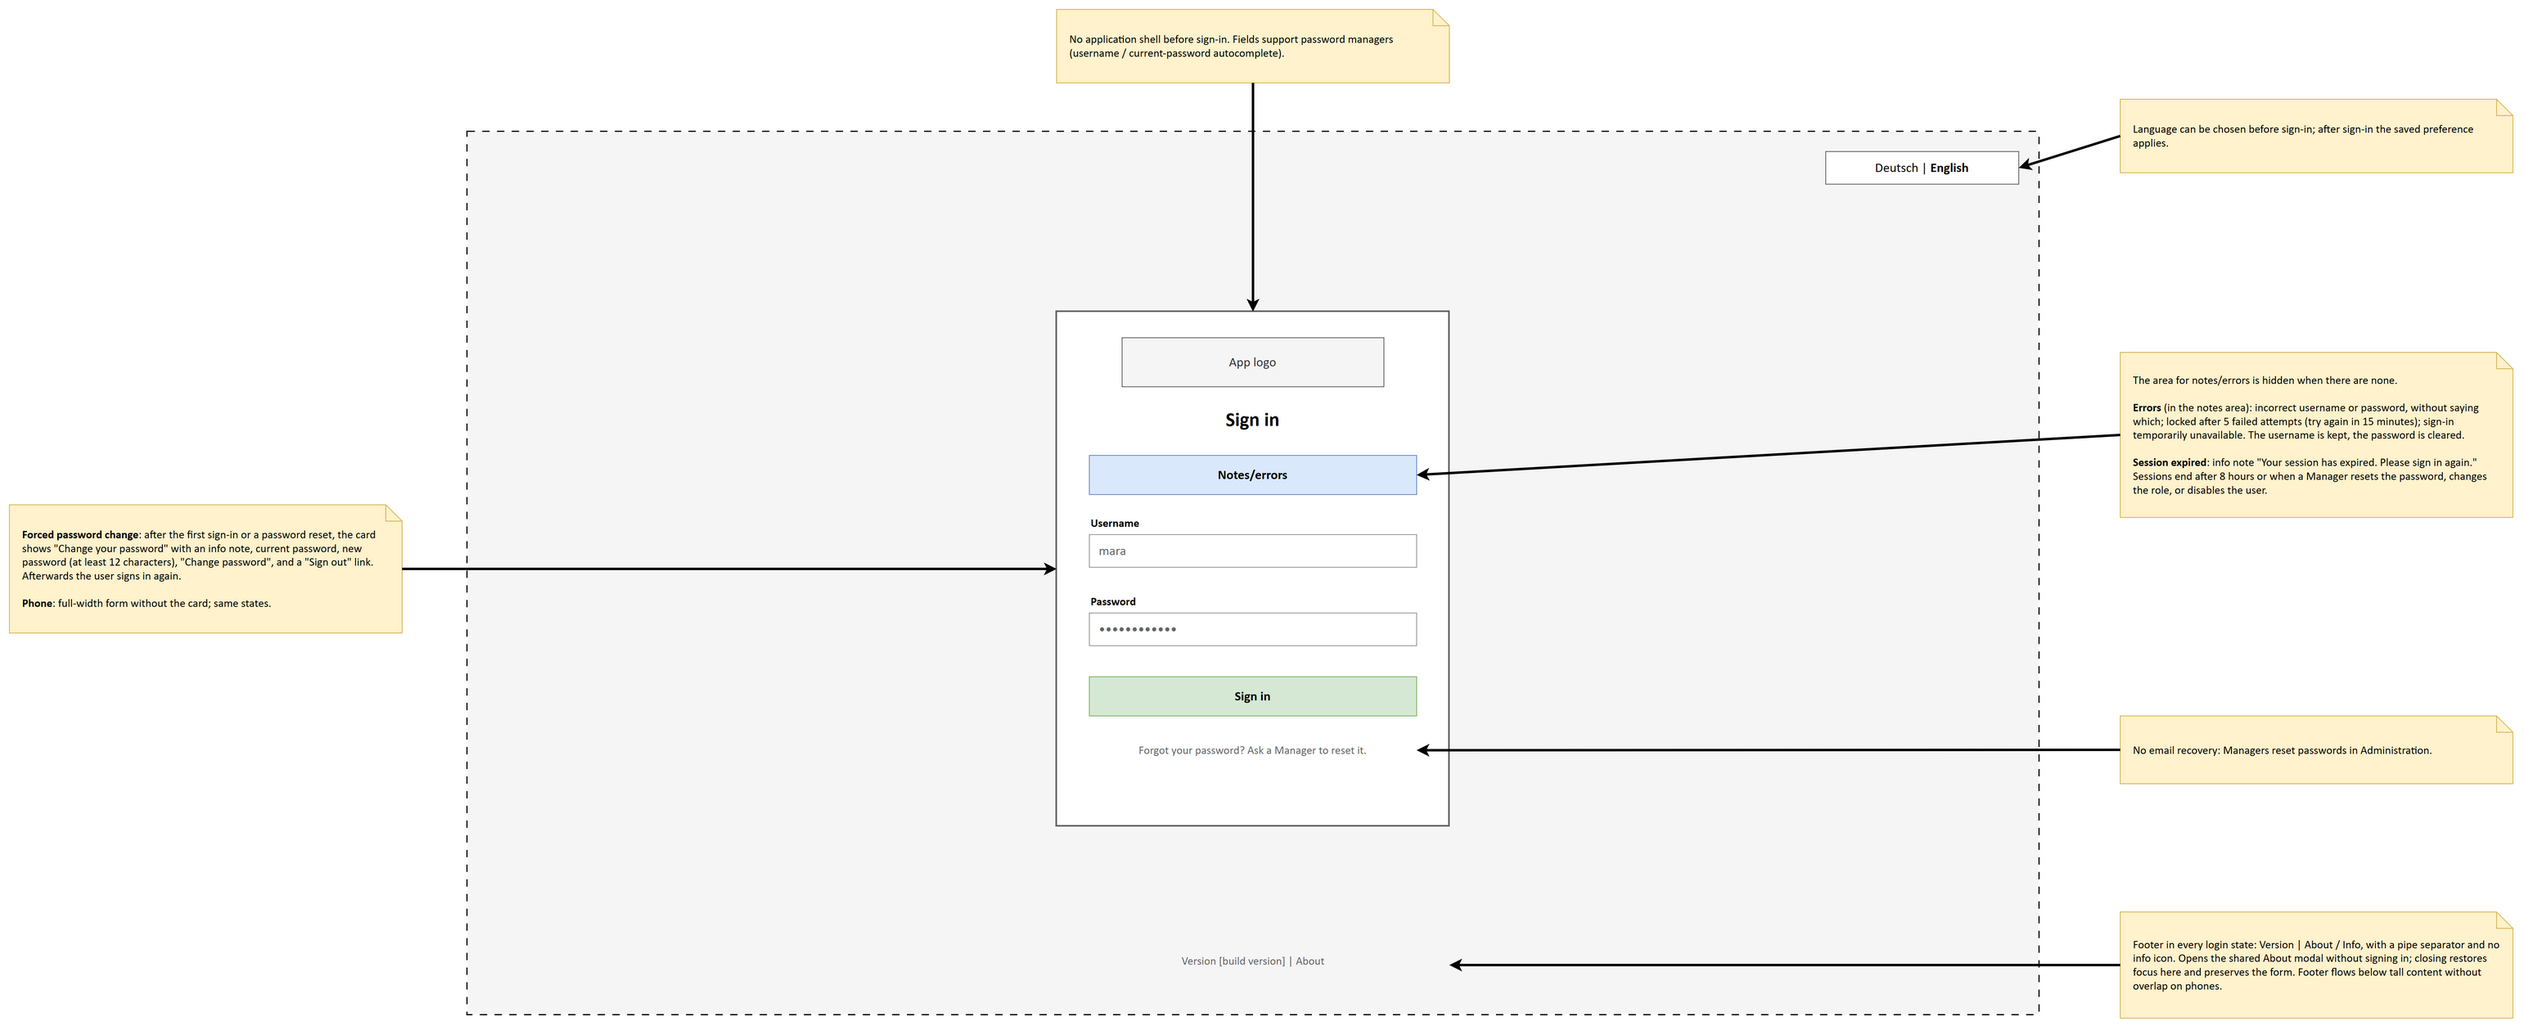
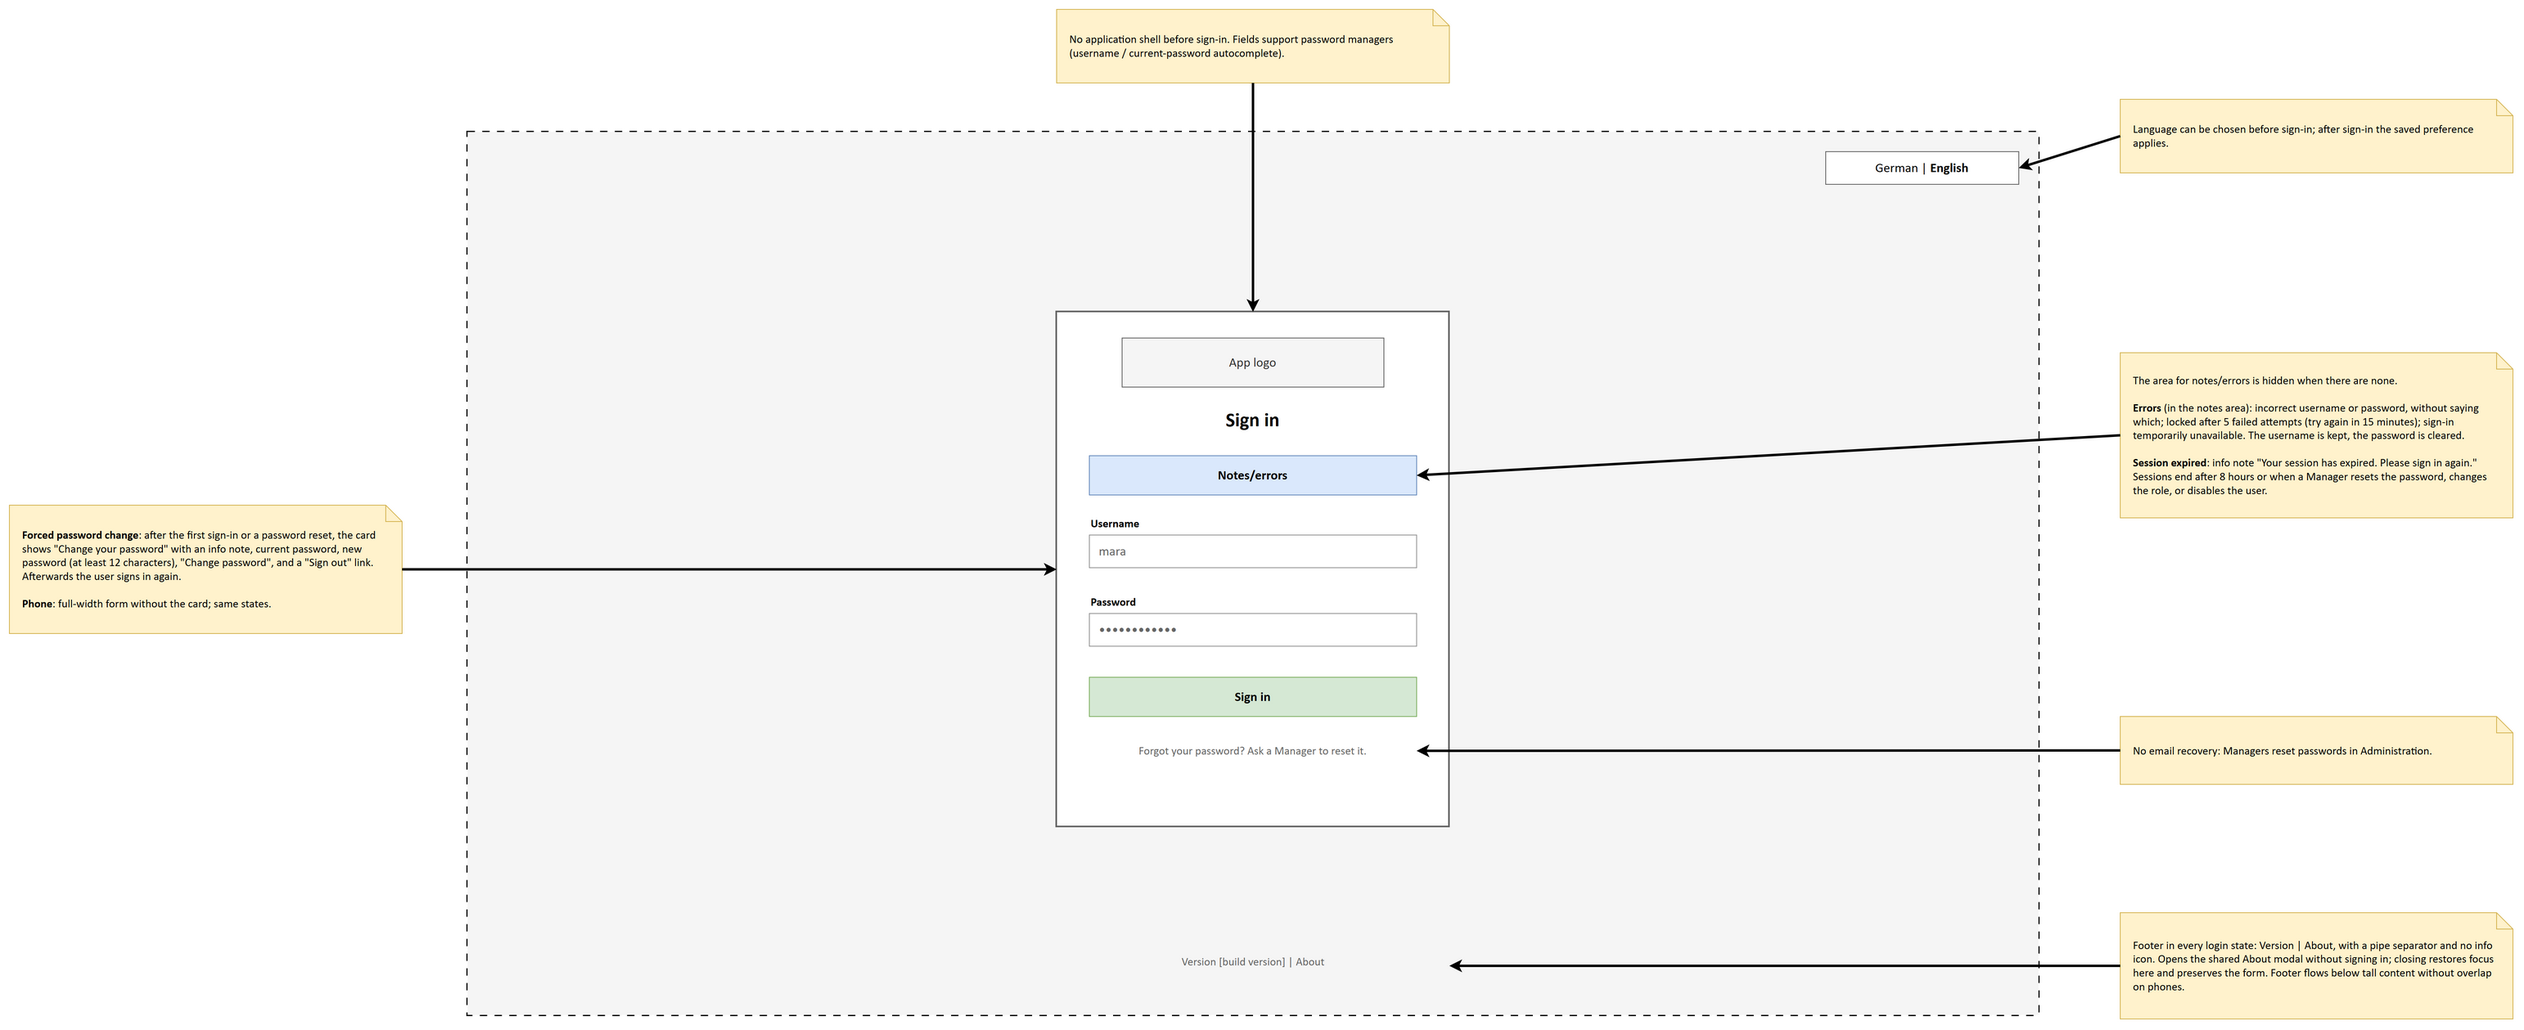
Approve English-only wireframes and refine design review workflow

diff --git a/docs/design/README.md b/docs/design/README.md
@@ -310,19 +310,51 @@ wireframe first, then a detailed click prototype.
 - As references arrive, add actual source/preview links below with role, viewport/state, draft/approved status, reviewed revision, approval date, and open questions. Only link files that exist.
 - Keep visual-token and interaction guidance here too, linked from that index. Wireframes alone do not approve typography, colors, or all behavior.
 
+The user explicitly approved **all 11 then-current wireframes on 2026-10-21**
+("I did minor adjustments on some of the wireframes and approve all of them"),
+including the latest user-edited App shell, About Overview and Project license
+sources, link-target widths and annotation arrangement. This approval remains
+history for subsequently changed references; the four unchanged wireframes
+retain this approval. Earlier dates below also remain approval history.
+Annotation colours were already normal. Obsolete "R5 draft" prefixes were
+removed from two About notes without changing their meaning or geometry, and
+the four affected/user-adjusted PNGs were re-exported and visually inspected.
+This housekeeping does not reopen approval. Prototype approvals are unchanged:
+the Login centring prototype correction still awaits its own approval, and
+wireframe approval does not approve legal wording or unresolved business policy.
+
+Later on 2026-10-21, the user requested English-only text in all wireframes.
+The App shell, Login, Administration Profile and all four About wireframes had
+wording-only draft revisions: German alternatives were removed, and
+language controls use the English label "German" instead of "Deutsch" without
+changing their meaning. Nine changed annotations used temporary light-blue
+review markers. Geometry, arrow routing, behavior, prototypes and application
+translations are unchanged. All seven PNGs were re-exported and visually
+inspected; all 11 sources parse with valid connector references, and a decoded
+text scan found no remaining German terms.
+
+The user then explicitly approved all seven English-only wireframe revisions
+on 2026-10-21 ("all approved"), including the latest user-edited notices source.
+All 11 current wireframes are now approved. The nine annotation highlights were
+restored to normal yellow without changing their text, geometry or arrow
+routing, and all six cleanup-affected PNGs were re-exported and visually
+inspected. The Profile preview remains synchronized from its previous export.
+All 11 sources parse with valid references and no review colours on notes.
+Prototype approvals and legal-content review remain separate and unchanged.
+
 | Reference | Files | Status | Click prototype |
 | --- | --- | --- | --- |
-| App shell | [draw.io source](wireframes/application-shell/application-shell-wireframe.drawio), [PNG preview](wireframes/application-shell/application-shell-wireframe.png) | Administration-last-in-top-group correction explicitly approved 2026-10-17 ("Approve both current references"); earlier approvals and user-edited icon placeholders/annotation arrangement retained as history | [Shell](prototypes/application-shell/index.html), revised Administration-last menu prototype explicitly approved 2026-10-17 ("Approve current shell prototype and implement Angular"); earlier approvals retained as history |
+| App shell | [draw.io source](wireframes/application-shell/application-shell-wireframe.drawio), [PNG preview](wireframes/application-shell/application-shell-wireframe.png) | English-only wording explicitly approved 2026-10-21; earlier all-wireframe approval and Administration-last correction approval 2026-10-17 retained as history; user-edited icon placeholders/annotation arrangement preserved | [Shell](prototypes/application-shell/index.html), revised Administration-last menu prototype explicitly approved 2026-10-17 ("Approve current shell prototype and implement Angular"); earlier approvals retained as history |
 | Accounts overview | [draw.io source](wireframes/accounts-overview/accounts-overview-wireframe.drawio), [PNG preview](wireframes/accounts-overview/accounts-overview-wireframe.png) | Approved 2026-10-10 | [Overview](prototypes/accounts-overview/index.html) |
 | Accounts | [draw.io source](wireframes/accounts/accounts-wireframe.drawio), [PNG preview](wireframes/accounts/accounts-wireframe.png) | Approved 2026-10-10, including mobile identity/status grouping and removal of the mobile chevron | [Accounts](prototypes/accounts/index.html) |
 | Account details | [draw.io source](wireframes/account-details/account-details-wireframe.drawio), [PNG preview](wireframes/account-details/account-details-wireframe.png) | Wireframe and earlier execution-status prototype explicitly approved 2026-10-12; borderless image-edit badge prototype explicitly approved 2026-10-17 ("Approve both current references"); approved wireframe unchanged | [Account details](prototypes/account-details/index.html) |
-| Administration: Profile | [draw.io source](wireframes/administration/administration-profile-wireframe.drawio), [PNG preview](wireframes/administration/administration-profile-wireframe.png) | Approved 2026-10-10 | [Administration](prototypes/administration/index.html) |
+| Administration: Profile | [draw.io source](wireframes/administration/administration-profile-wireframe.drawio), [PNG preview](wireframes/administration/administration-profile-wireframe.png) | English-only wording explicitly approved 2026-10-21; earlier all-wireframe approval and approval 2026-10-10 retained as history | [Administration](prototypes/administration/index.html) |
 | Administration: Users | [draw.io source](wireframes/administration/administration-users-wireframe.drawio), [PNG preview](wireframes/administration/administration-users-wireframe.png) | Approved 2026-10-10 | [Administration](prototypes/administration/index.html) |
-| Login | [draw.io source](wireframes/login/login-wireframe.drawio), [PNG preview](wireframes/login/login-wireframe.png) | Approved wireframe unchanged; icon-free footer approval 2026-10-17 retained | [Login](prototypes/login/index.html), centring correction draft 2026-10-19; prior shared About/footer approval retained as history |
-| About: Overview | [draw.io source](wireframes/about/about-wireframe.drawio), [PNG preview](wireframes/about/about-wireframe.png) | R5 explicitly approved 2026-10-19; project license removed from Overview; prior approvals retained as history | [About](prototypes/about/index.html), R5 explicitly approved 2026-10-19 |
-| About: Project license | [draw.io source](wireframes/about/about-license-wireframe.drawio), [PNG preview](wireframes/about/about-license-wireframe.png) | R5 explicitly approved 2026-10-19, including current source/annotations; full AGPL text without expansion | [About](prototypes/about/index.html), R5 explicitly approved 2026-10-19 |
-| About: Third-party notices | [draw.io source](wireframes/about/about-notices-wireframe.drawio), [PNG preview](wireframes/about/about-notices-wireframe.png) | R5 explicitly approved 2026-10-19; synchronized four-tab strip; prior approvals retained as history | [About](prototypes/about/index.html), R5 explicitly approved 2026-10-19 |
-| About: Legal information | [draw.io source](wireframes/about/about-legal-wireframe.drawio), [PNG preview](wireframes/about/about-legal-wireframe.png) | R5 explicitly approved 2026-10-19; synchronized four-tab strip; legal wording not approved | [About](prototypes/about/index.html), R5 explicitly approved 2026-10-19; legal placeholders only |
+| Login | [draw.io source](wireframes/login/login-wireframe.drawio), [PNG preview](wireframes/login/login-wireframe.png) | English-only wording explicitly approved 2026-10-21; earlier all-wireframe approval and icon-free footer approval 2026-10-17 retained as history | [Login](prototypes/login/index.html), centring correction draft 2026-10-19; prior shared About/footer approval retained as history |
+| About: Overview | [draw.io source](wireframes/about/about-wireframe.drawio), [PNG preview](wireframes/about/about-wireframe.png) | English-only wording explicitly approved 2026-10-21; earlier all-wireframe and R5 approval 2026-10-19 retained as history; project license remains outside Overview | [About](prototypes/about/index.html), R5 explicitly approved 2026-10-19 |
+| About: Project license | [draw.io source](wireframes/about/about-license-wireframe.drawio), [PNG preview](wireframes/about/about-license-wireframe.png) | English-only wording explicitly approved 2026-10-21; earlier all-wireframe and R5 approval 2026-10-19 retained as history; full AGPL text without expansion unchanged | [About](prototypes/about/index.html), R5 explicitly approved 2026-10-19 |
+| About: Third-party notices | [draw.io source](wireframes/about/about-notices-wireframe.drawio), [PNG preview](wireframes/about/about-notices-wireframe.png) | English-only wording and latest user source edits explicitly approved 2026-10-21; earlier all-wireframe and R5 approval 2026-10-19 retained as history; synchronized four-tab strip unchanged | [About](prototypes/about/index.html), R5 explicitly approved 2026-10-19 |
+| About: Legal information | [draw.io source](wireframes/about/about-legal-wireframe.drawio), [PNG preview](wireframes/about/about-legal-wireframe.png) | English-only wording explicitly approved 2026-10-21; earlier all-wireframe and R5 approval 2026-10-19 retained as history; legal wording not approved | [About](prototypes/about/index.html), R5 explicitly approved 2026-10-19; legal placeholders only |
 
 Prototype structure, review settings, and fictional sign-in data are described in
 the [prototype notes](prototypes/README.md).

diff --git a/.github/skills/ui-ux-design/SKILL.md b/.github/skills/ui-ux-design/SKILL.md
@@ -34,11 +34,15 @@ the rules; this skill describes the steps.
 ## 2. Wireframe
 
 - Location: `docs/design/wireframes/<view>/<view>-wireframe.drawio`; one page with a 1440px-wide main-content viewport (or an existing agreed viewport size). Expand the drawing around it for annotations; do not enlarge the viewport merely to fit notes.
+- Use English only for all wireframe text, including UI labels, placeholders, annotations and connector labels, unless the user explicitly requests another language or bilingual text. Do not pair English and German terms by default. The bilingual requirements for click prototypes and the application remain unchanged.
 - Style conventions: Calibri; panels and controls as plain boxes; primary actions green-filled; placeholders dashed. Enclose the viewport in a dashed border. Use yellow note shapes (`shape=note`, not callouts) for behavior, states, roles, dialogs, and phone layout, entirely outside the viewport. Arrange notes around its edges with space between them. Connect each note to the relevant existing component with an arrow pointing from note to component; route through empty space where possible.
 - Keep the XML readable. If the user edited the source, change only the affected cells.
 - Consolidate notes about the same area/component into one note with one arrow. Use straight connectors (`edgeStyle=none;curved=0`) with a 3px stroke (`strokeWidth=3`) and no intermediate waypoints.
 - Use a black 3px viewport border with draw.io's "Dashed (1)" preset (`strokeColor=#000000;strokeWidth=3;dashed=1`, no custom `dashPattern`).
 - Send the viewport rectangle to the back (first drawable cell in the XML root), keeping other elements in front. Use black (`strokeColor=#000000`) for annotation connector lines.
+- Make new or changed annotations visually obvious during review instead of embedding revision labels such as "R5 draft" in comment text. Prefer a temporary light-blue note (`fillColor=#dae8fc;strokeColor=#6c8ebf`); optionally highlight its text or connector in blue (`#0078D4`). Use a consistent marker for the changed annotations only, keeping their text readable and preserving the user's positions and arrow routing. Keep revision/approval history in the design index, not the annotation prose.
+- After explicit approval, inspect the approved source for remaining review colours. If the user has not reset them, restore the normal yellow note (`fillColor=#fff2cc;strokeColor=#d6b656`), black text (`fontColor=#000000`) and black connector (`strokeColor=#000000`), removing temporary inline text-colour overrides where necessary. Remove obsolete revision/draft prefixes from annotation prose without changing its meaning. Preserve all other user edits. This is approval housekeeping, not a new design revision or approval gate.
+- Whenever review markers are added or cleared, re-export and inspect the PNG from the resulting source. Do not leave the approved preview showing stale highlights, or record cleanup as complete until the source and preview agree.
 - Give notes an initial non-overlapping position outside the viewport, then ask the user to arrange them in draw.io. Offer all four sides, including top and bottom, to shorten arrows. Pause final layout/export review until the user confirms the arrangement is ready; do not automatically optimize routes or overwrite their placement. A preliminary PNG may be exported as a draft.
 - Export the preview with the draw.io desktop app:
 
@@ -46,7 +50,7 @@ the rules; this skill describes the steps.
 & "C:\Program Files\draw.io\draw.io.exe" -x -f png -b 10 -o <view>-wireframe.png <view>-wireframe.drawio
 ```
 
-- Once the user confirms the arrangement, re-export and view the PNG. Check the dashed viewport, external note placement, readable text, one arrow per annotated area, and absence of annotation/control overlap before continuing.
+- Once the user confirms the arrangement, re-export and view the PNG. Check English-only text (unless explicitly requested otherwise), the dashed viewport, external note placement, readable text, one arrow per annotated area, and absence of annotation/control overlap before continuing.
 - Arrangement confirmation only permits export. Wait for explicit approval of the exported wireframe revision before starting or updating its dependent click prototype.
 
 ## 3. Click prototype
@@ -100,6 +104,7 @@ The integrated browser tab may be hidden: prefer `page.evaluate` with `requestSu
 ## 6. Finish
 
 - Update the [design index](../../../docs/design/README.md): links, and mark changed references as drafts until the user approves them.
+- When approval is given, record the approved revision/date and complete the annotation-colour cleanup and PNG re-export above; do not wait for the user to request cleanup separately.
 - Summarize what changed and what was verified; list open business questions instead of deciding them in the design.
 - Angular implementation happens separately after approval, following the [web instructions](../../instructions/web.instructions.md) and the E2E-first verification of [ADR-0005](../../../docs/ADR/ADR-0005-e2e-first-verification.md).
 - If either current artifact is still a draft, finish by stating what awaits review. Do not infer approval from feedback or a general instruction to continue.

diff --git a/.github/instructions/design.instructions.md b/.github/instructions/design.instructions.md
@@ -10,6 +10,7 @@ applyTo: "docs/design/**"
 - Wireframes: one `<view>/<view>-wireframe.drawio` with one desktop viewport showing only the main content container (no shell). Mark the viewport with a dashed border. Place yellow note shapes (`shape=note`, not callouts) outside it, around the viewport, and connect each note to its relevant area/component with a directed arrow. Keep notes and their text entirely outside the viewport; avoid overlapping notes, controls, and connector labels. Route connectors through empty space where possible. The drawing/export includes both viewport and surrounding notes. Re-export and inspect the PNG after every change.
 - Do not regenerate or overwrite a `.drawio` source the user has edited by hand; edit it in place and keep their changes.
 - Merge notes targeting the same area/component into one note and one arrow. Use straight connectors (`edgeStyle=none;curved=0`) with a 3px stroke (`strokeWidth=3`), without intermediate waypoints.
+- During review, mark changed annotations visually rather than adding revision labels to their prose: prefer light-blue notes (`fillColor=#dae8fc;strokeColor=#6c8ebf`), with optional blue text/arrows (`#0078D4`). After explicit approval, restore yellow notes (`#fff2cc`/`#d6b656`) and black text/arrows if the user has not done so, remove obsolete revision/draft prefixes, and re-export/inspect the PNG. Preserve annotation meaning, user placement and all other edits. Marker cleanup is approval housekeeping, not a new review gate; keep revision/approval history in the design index.
 - Viewport borders use black (`strokeColor=#000000`), 3px (`strokeWidth=3`), and draw.io's "Dashed (1)" preset (`dashed=1`, no custom `dashPattern`).
 - Keep the viewport rectangle behind all content and annotation elements (first drawable cell in the XML root), so it does not block them. Annotation connector lines are black (`strokeColor=#000000`).
 - After creating or substantially updating a wireframe, ask the user to arrange its notes in draw.io before final export and review. Provide initial non-overlapping placement outside the dashed viewport, but do not spend time optimizing routes automatically. Notes may sit above, below, left, or right to keep arrows short and readable. Preserve the user's arrangement on subsequent edits; after they confirm it is ready, re-export and inspect the PNG.

diff --git a/docs/ADR/ADR-0013-wireframes-and-click-prototypes.md b/docs/ADR/ADR-0013-wireframes-and-click-prototypes.md
@@ -49,6 +49,15 @@ prepares consolidated note content; the user arranges notes before final export
 and review. This replaces automatic annotation-layout optimization, not the
 wireframe/prototype approval gates.
 
+Annotation review markers refined with user approval on 2026-10-21: highlight
+changed notes visually instead of adding revision labels to annotation prose.
+Use a temporary light-blue note, optionally with blue text or connector, and keep
+revision/approval history in the design index. After explicit approval, the
+assistant restores normal yellow notes and black text/connectors if needed,
+removes obsolete annotation revision/draft prefixes and re-exports/inspects the
+PNG without waiting for a separate cleanup request. Preserve user layout and
+annotation meaning. This housekeeping does not create another approval gate.
+
 ### Click prototypes
 
 - Build one offline click prototype per view in `docs/design/prototypes/<view>/index.html`, based on the approved wireframe.
